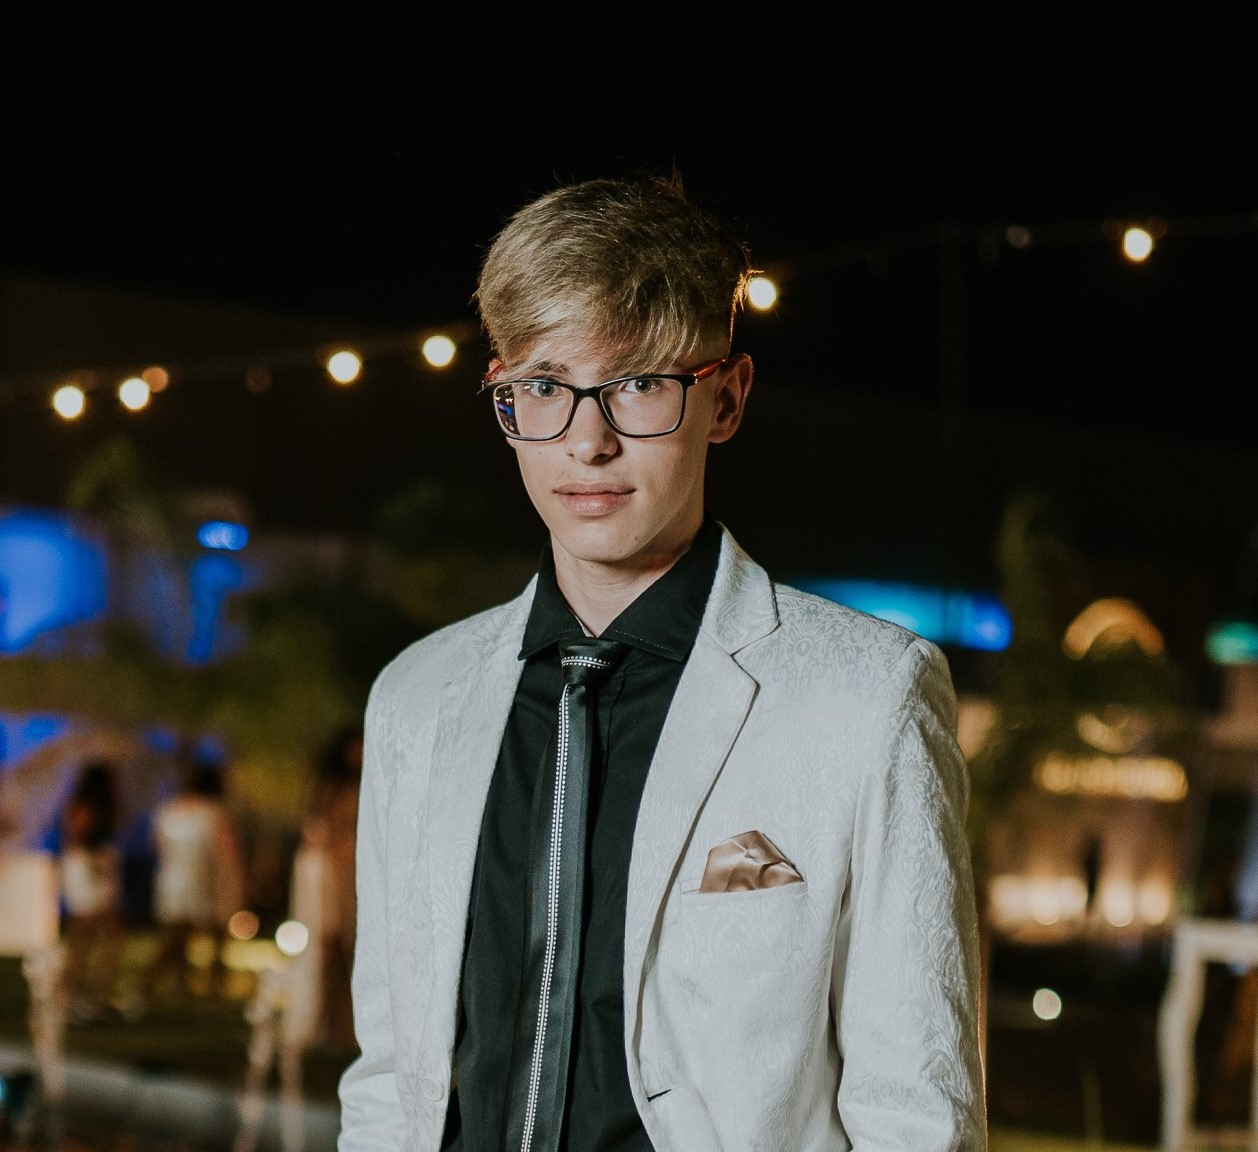
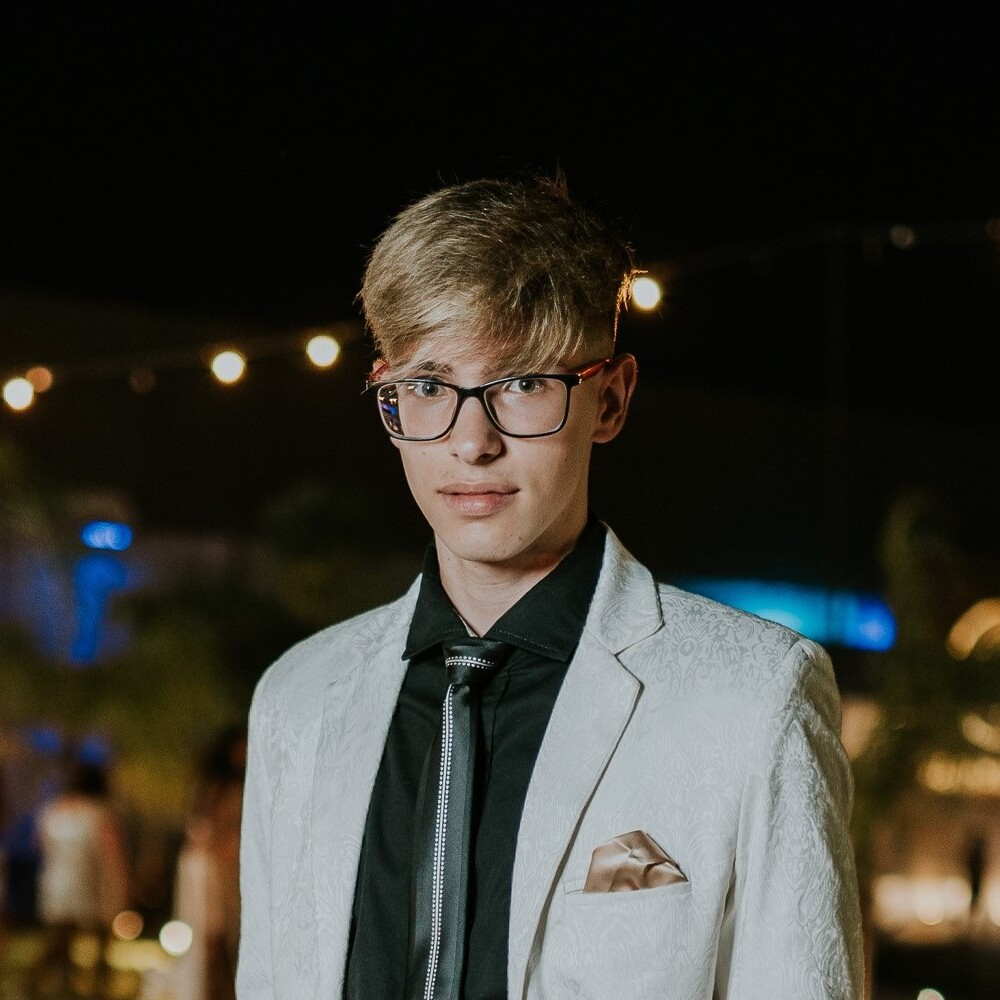
fotos de cada uno recortadas

diff --git a/client/src/pages/About/About.jsx b/client/src/pages/About/About.jsx
@@ -1,14 +1,14 @@
 import { Link } from "react-router-dom";
 import linkedln from "../../assets/socialmedia/linkedin.svg";
 import github from "../../assets/socialmedia/github.svg";
-import agustinimg from "../../assets/profileimg/agustinchavero.jpg";
+import agustinimg from "../../assets/profileimg/agustinchavero.jpeg";
 import benjaminimg from "../../assets/profileimg/benjamincastro.jpg";
-import federicoimg from "../../assets/profileimg/federicoalmeida.jpg";
-import florenciaimg from "../../assets/profileimg/florenciamarcos.jpg";
-import imanolimg from "../../assets/profileimg/imanoldominguez.jpg";
-import maxiimg from "../../assets/profileimg/maximopermingeat.jpg";
-import pabloimg from "../../assets/profileimg/pabloamico.jpg";
-import stefanoimg from "../../assets/profileimg/stefanegemelli.jpg";
+import federicoimg from "../../assets/profileimg/federicoalmeida.jpeg";
+import florenciaimg from "../../assets/profileimg/florenciamarcos.jpeg";
+import imanolimg from "../../assets/profileimg/imanoldominguez.jpeg";
+import maxiimg from "../../assets/profileimg/maximopermingeat.jpeg";
+import pabloimg from "../../assets/profileimg/pabloamico.jpeg";
+import stefanoimg from "../../assets/profileimg/stefanegemelli.jpeg";
 function About() {
   const members = [
     {
